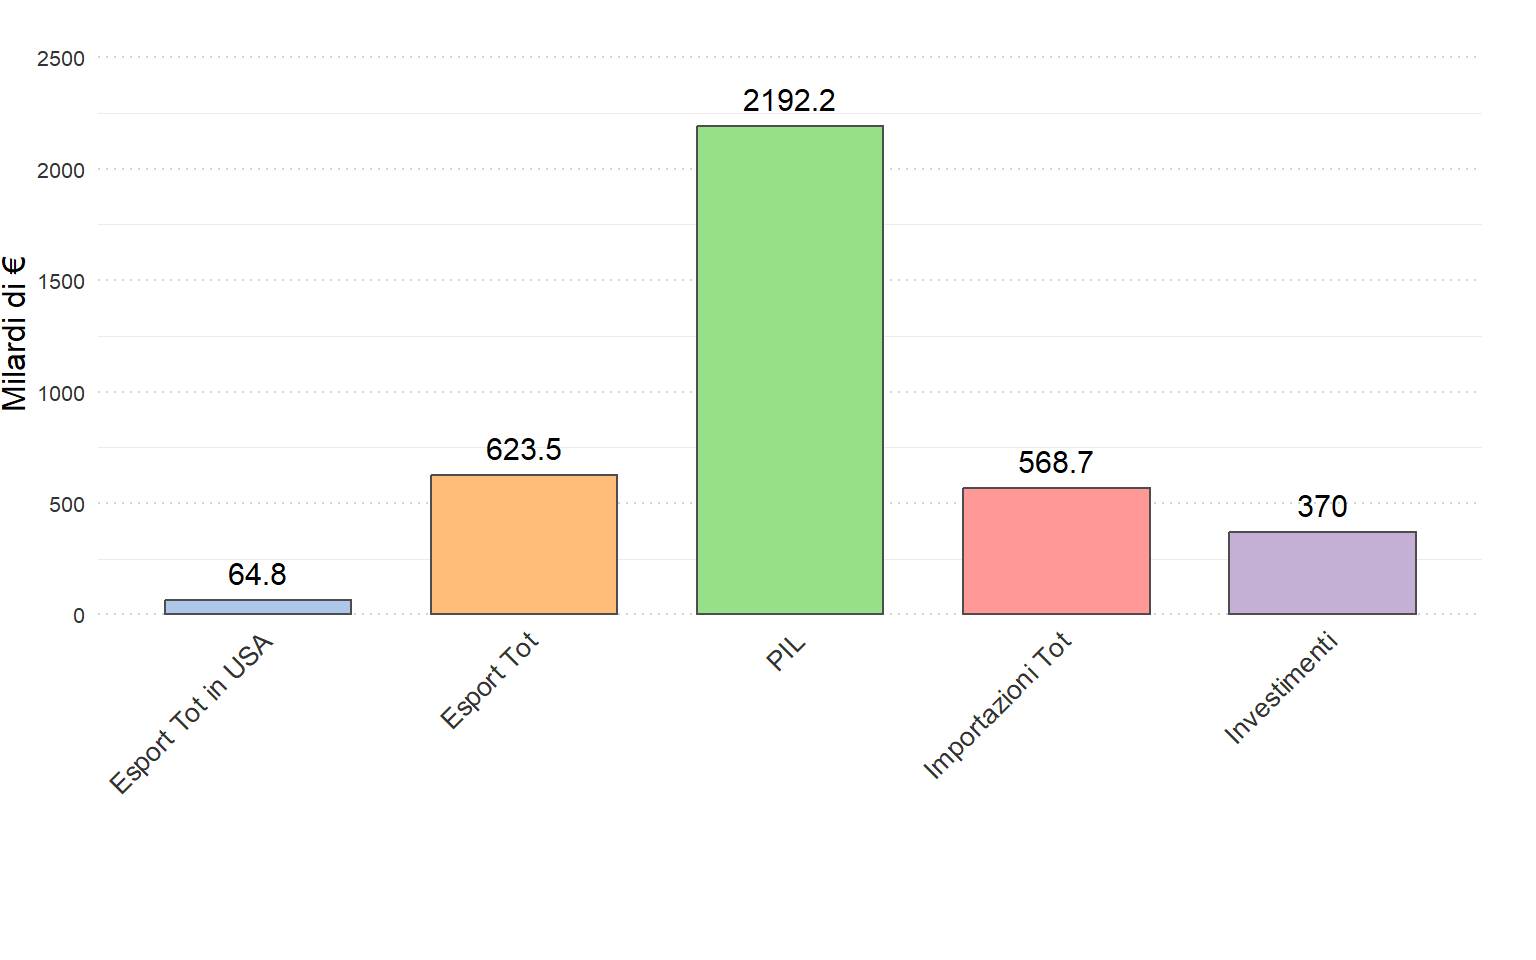
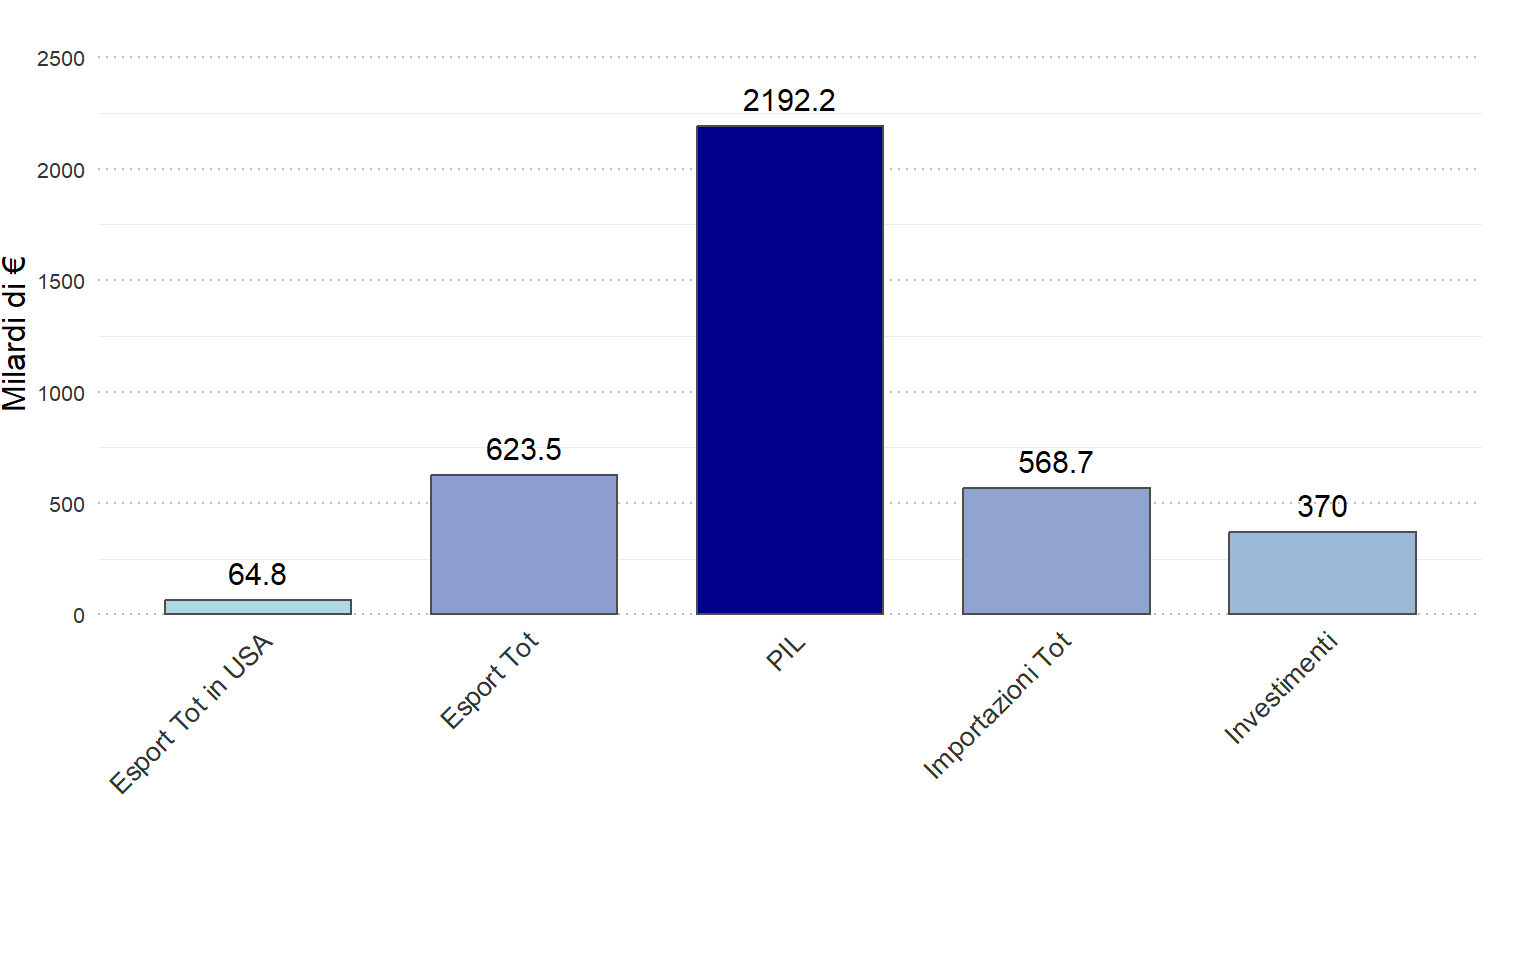
AA

diff --git a/docs/grafico_uno.html b/docs/grafico_uno.html
@@ -32,14 +32,6 @@
 <script src="site_libs/navigation-1.1/tabsets.js"></script>
 <link href="site_libs/highlightjs-9.12.0/textmate.css" rel="stylesheet" />
 <script src="site_libs/highlightjs-9.12.0/highlight.js"></script>
-<link href="site_libs/htmltools-fill-0.5.8.1/fill.css" rel="stylesheet" />
-<script src="site_libs/htmlwidgets-1.6.4/htmlwidgets.js"></script>
-<script src="site_libs/plotly-binding-4.11.0/plotly.js"></script>
-<script src="site_libs/typedarray-0.1/typedarray.min.js"></script>
-<link href="site_libs/crosstalk-1.2.1/css/crosstalk.min.css" rel="stylesheet" />
-<script src="site_libs/crosstalk-1.2.1/js/crosstalk.min.js"></script>
-<link href="site_libs/plotly-htmlwidgets-css-2.11.1/plotly-htmlwidgets.css" rel="stylesheet" />
-<script src="site_libs/plotly-main-2.11.1/plotly-latest.min.js"></script>
 <link href="site_libs/font-awesome-6.5.2/css/all.min.css" rel="stylesheet" />
 <link href="site_libs/font-awesome-6.5.2/css/v4-shims.min.css" rel="stylesheet" />
 
@@ -283,14 +275,14 @@ $(document).ready(function () {
 </div>
 
 
-<div id="andamento-dei-valori-nel-tempo" class="section level1">
-<h1>Andamento dei Valori nel Tempo</h1>
-<p>Questo grafico mostra l’andamento di due variabili campione nel
-tempo, rendendole interattive grazie a <code>plotly</code>. Puoi passare
-il mouse sui punti per vedere i dettagli, zoomare e selezionare
-aree.</p>
-<div class="plotly html-widget html-fill-item" id="htmlwidget-f30d7598595affc4f25a" style="width:960px;height:576px;"></div>
-<script type="application/json" data-for="htmlwidget-f30d7598595affc4f25a">{"x":{"data":[{"x":[19358,19389,19417,19448,19478,19509,19539,19570,19601,19631,19662,19692],"y":[8.8790487068955741,18.418693727929014,31.536110356227262,41.677127139076411,51.935702609398305,65.36583258316486,76.287664995143274,83.757542525930205,92.383836822143152,101.49251288194324,113.94067647682216,124.66030413093689],"text":["date: 2023-01-01<br />value:   8.879049<br />variable: value_A<br />variable: value_A","date: 2023-02-01<br />value:  18.418694<br />variable: value_A<br />variable: value_A","date: 2023-03-01<br />value:  31.536110<br />variable: value_A<br />variable: value_A","date: 2023-04-01<br />value:  41.677127<br />variable: value_A<br />variable: value_A","date: 2023-05-01<br />value:  51.935703<br />variable: value_A<br />variable: value_A","date: 2023-06-01<br />value:  65.365833<br />variable: value_A<br />variable: value_A","date: 2023-07-01<br />value:  76.287665<br />variable: value_A<br />variable: value_A","date: 2023-08-01<br />value:  83.757543<br />variable: value_A<br />variable: value_A","date: 2023-09-01<br />value:  92.383837<br />variable: value_A<br />variable: value_A","date: 2023-10-01<br />value: 101.492513<br />variable: value_A<br />variable: value_A","date: 2023-11-01<br />value: 113.940676<br />variable: value_A<br />variable: value_A","date: 2023-12-01<br />value: 124.660304<br />variable: value_A<br />variable: value_A"],"type":"scatter","mode":"lines+markers","line":{"width":3.7795275590551185,"color":"rgba(248,118,109,1)","dash":"solid"},"hoveron":"points","name":"value_A","legendgroup":"value_A","showlegend":true,"xaxis":"x","yaxis":"y","hoverinfo":"text","marker":{"autocolorscale":false,"color":"rgba(248,118,109,1)","opacity":0.80000000000000004,"size":7.559055118110237,"symbol":"circle","line":{"width":1.8897637795275593,"color":"rgba(248,118,109,1)"}},"frame":null},{"x":[19358,19389,19417,19448,19478,19509,19539,19570,19601,19631,19662,19692],"y":[9.2023143517821566,17.534362499617515,23.866839095355289,37.227578505764527,46.721129940452244,48.821278470563328,58.925346175254383,65.506971952070586,70.303500834110054,77.649576090135156,82.571562745213441,88.384889057340018],"text":["date: 2023-01-01<br />value:   9.202314<br />variable: value_B<br />variable: value_B","date: 2023-02-01<br />value:  17.534362<br />variable: value_B<br />variable: value_B","date: 2023-03-01<br />value:  23.866839<br />variable: value_B<br />variable: value_B","date: 2023-04-01<br />value:  37.227579<br />variable: value_B<br />variable: value_B","date: 2023-05-01<br />value:  46.721130<br />variable: value_B<br />variable: value_B","date: 2023-06-01<br />value:  48.821278<br />variable: value_B<br />variable: value_B","date: 2023-07-01<br />value:  58.925346<br />variable: value_B<br />variable: value_B","date: 2023-08-01<br />value:  65.506972<br />variable: value_B<br />variable: value_B","date: 2023-09-01<br />value:  70.303501<br />variable: value_B<br />variable: value_B","date: 2023-10-01<br />value:  77.649576<br />variable: value_B<br />variable: value_B","date: 2023-11-01<br />value:  82.571563<br />variable: value_B<br />variable: value_B","date: 2023-12-01<br />value:  88.384889<br />variable: value_B<br />variable: value_B"],"type":"scatter","mode":"lines+markers","line":{"width":3.7795275590551185,"color":"rgba(0,191,196,1)","dash":"solid"},"hoveron":"points","name":"value_B","legendgroup":"value_B","showlegend":true,"xaxis":"x","yaxis":"y","hoverinfo":"text","marker":{"autocolorscale":false,"color":"rgba(0,191,196,1)","opacity":0.80000000000000004,"size":7.559055118110237,"symbol":"circle","line":{"width":1.8897637795275593,"color":"rgba(0,191,196,1)"}},"frame":null}],"layout":{"margin":{"t":45.710806697108069,"r":7.3059360730593621,"b":42.130898021308994,"l":43.105022831050235},"font":{"color":"rgba(0,0,0,1)","family":"","size":14.611872146118724},"title":{"text":"Andamento Mensile delle Variabili A e B","font":{"color":"rgba(0,0,0,1)","family":"","size":17.534246575342465},"x":0,"xref":"paper"},"xaxis":{"domain":[0,1],"automargin":true,"type":"linear","autorange":false,"range":[19341.299999999999,19708.700000000001],"tickmode":"array","ticktext":["gen 2023","apr 2023","lug 2023","ott 2023"],"tickvals":[19358,19448,19539,19631],"categoryorder":"array","categoryarray":["gen 2023","apr 2023","lug 2023","ott 2023"],"nticks":null,"ticks":"","tickcolor":null,"ticklen":3.6529680365296811,"tickwidth":0,"showticklabels":true,"tickfont":{"color":"rgba(77,77,77,1)","family":"","size":11.68949771689498},"tickangle":-0,"showline":false,"linecolor":null,"linewidth":0,"showgrid":true,"gridcolor":"rgba(235,235,235,1)","gridwidth":0.66417600664176002,"zeroline":false,"anchor":"y","title":{"text":"Data","font":{"color":"rgba(0,0,0,1)","family":"","size":14.611872146118724}},"hoverformat":".2f"},"yaxis":{"domain":[0,1],"automargin":true,"type":"linear","autorange":false,"range":[3.089985935693508,130.44936690213896],"tickmode":"array","ticktext":["25","50","75","100","125"],"tickvals":[25,50,75,100,125],"categoryorder":"array","categoryarray":["25","50","75","100","125"],"nticks":null,"ticks":"","tickcolor":null,"ticklen":3.6529680365296811,"tickwidth":0,"showticklabels":true,"tickfont":{"color":"rgba(77,77,77,1)","family":"","size":11.68949771689498},"tickangle":-0,"showline":false,"linecolor":null,"linewidth":0,"showgrid":true,"gridcolor":"rgba(235,235,235,1)","gridwidth":0.66417600664176002,"zeroline":false,"anchor":"x","title":{"text":"Valore","font":{"color":"rgba(0,0,0,1)","family":"","size":14.611872146118724}},"hoverformat":".2f"},"shapes":[{"type":"rect","fillcolor":null,"line":{"color":null,"width":0,"linetype":[]},"yref":"paper","xref":"paper","layer":"below","x0":0,"x1":1,"y0":0,"y1":1}],"showlegend":true,"legend":{"bgcolor":null,"bordercolor":null,"borderwidth":0,"font":{"color":"rgba(0,0,0,1)","family":"","size":11.68949771689498},"title":{"text":"Variabile","font":{"color":"rgba(0,0,0,1)","family":"","size":14.611872146118724}}},"hovermode":"x unified","barmode":"relative"},"config":{"doubleClick":"reset","modeBarButtonsToAdd":["hoverclosest","hovercompare"],"showSendToCloud":false},"source":"A","attrs":{"400c6382196":{"x":{},"y":{},"colour":{},"type":"scatter"},"400c31de32d1":{"x":{},"y":{},"colour":{}}},"cur_data":"400c6382196","visdat":{"400c6382196":["function (y) ","x"],"400c31de32d1":["function (y) ","x"]},"highlight":{"on":"plotly_click","persistent":false,"dynamic":false,"selectize":false,"opacityDim":0.20000000000000001,"selected":{"opacity":1},"debounce":0},"shinyEvents":["plotly_hover","plotly_click","plotly_selected","plotly_relayout","plotly_brushed","plotly_brushing","plotly_clickannotation","plotly_doubleclick","plotly_deselect","plotly_afterplot","plotly_sunburstclick"],"base_url":"https://plot.ly"},"evals":[],"jsHooks":[]}</script>
+<hr />
+<div id="valori-di-traffico-di-persone-per-paese-e-tipo-di-sfruttamento"
+class="section level2">
+<h2>Valori di Traffico di Persone per Paese e Tipo di Sfruttamento</h2>
+<div id="dati-eurostat-anno-2021" class="section level3">
+<h3>Dati Eurostat ANNO 2021</h3>
+<p><img src="grafico_uno_files/figure-html/unnamed-chunk-1-1.png" width="100%" style="display: block; margin: auto auto auto 0;" /></p>
+</div>
 </div>
 
 
